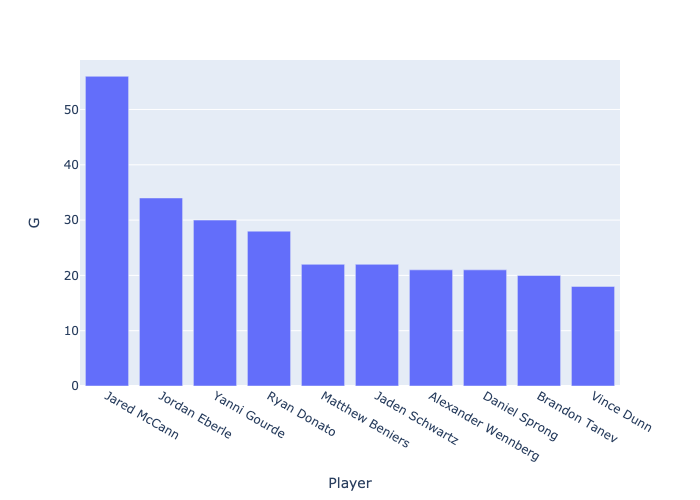
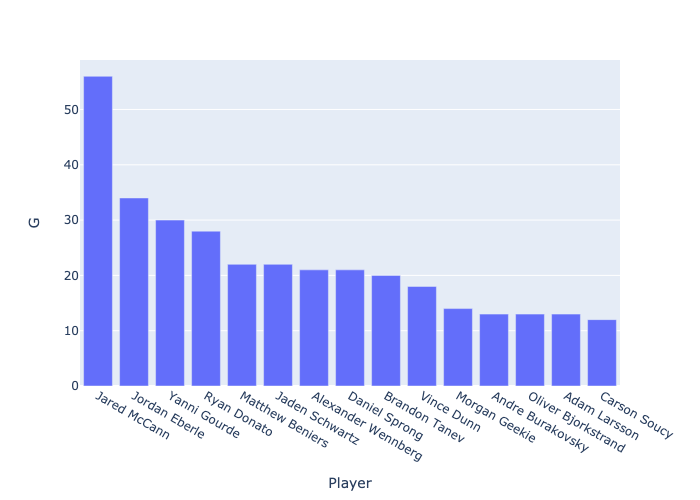
Got the basic stacked goalscoring chart done.

Changed region(s): [[0.12, 0.15, 0.96, 0.93]]

diff --git a/main.py b/main.py
@@ -51,14 +51,34 @@ for p in list_players:
         stacked_df = pd.concat([stacked_df, total_row.to_frame().T]).reset_index(drop=True)
 
 # TOP 10 goal scorers
-top_goalscorers = stacked_df.loc[stacked_df.Season == "Total"].sort_values("G",ascending=False).iloc[:10][['Player', 'Flag', 'G']]
+top_goalscorers = stacked_df.loc[stacked_df.Season == "Total"].sort_values("G", ascending=False).iloc[:15][['Player', 'Flag', 'G']]
 fig = go.Figure()
 fig = px.bar(top_goalscorers, y='G', x='Player')
 fig.show()
 fig.write_image("top_goalscorers.png")
-# for p in top_goalscorers:
-#     fig.add_trace(go.Bar(x=p.split()[-1], y=top_goalscorers))
 
+#for p in top_goalscorers.Player:
+#    print(p, [s for s in stacked_df.loc[stacked_df.Player == p].Season])
+def get_goals(df,p,s):
+    try:
+        return df[(df.Player == p) & (df.Season == s)].G.values[0]
+    except IndexError:
+        return 0
+# Maybe I should think about setting a different index for the subset dfs
+fig = go.Figure()
+names = [p.split()[-1] for p in top_goalscorers.Player]
+for s in seasons:
+    goals = [get_goals(stacked_df,p,s) for p in top_goalscorers.Player]
+    # goals = []
+    # for p in top_goalscorers.Player:
+    #     print(p)
+    #     goals.append(stacked_df[(stacked_df.Player == p) & (stacked_df.Season == s)].G.values[0] )
+    if s != 'Total':
+        fig.add_trace(go.Bar(name=s, x=names, y=goals))
+
+fig.update_layout(barmode='stack')
+fig.show()
+fig.write_image("top_goalscorers_stacked.png")
 # TODO
 ## Use better flags like https://github.com/hampusborgos/country-flags
 ## or https://github.com/google/region-flags
